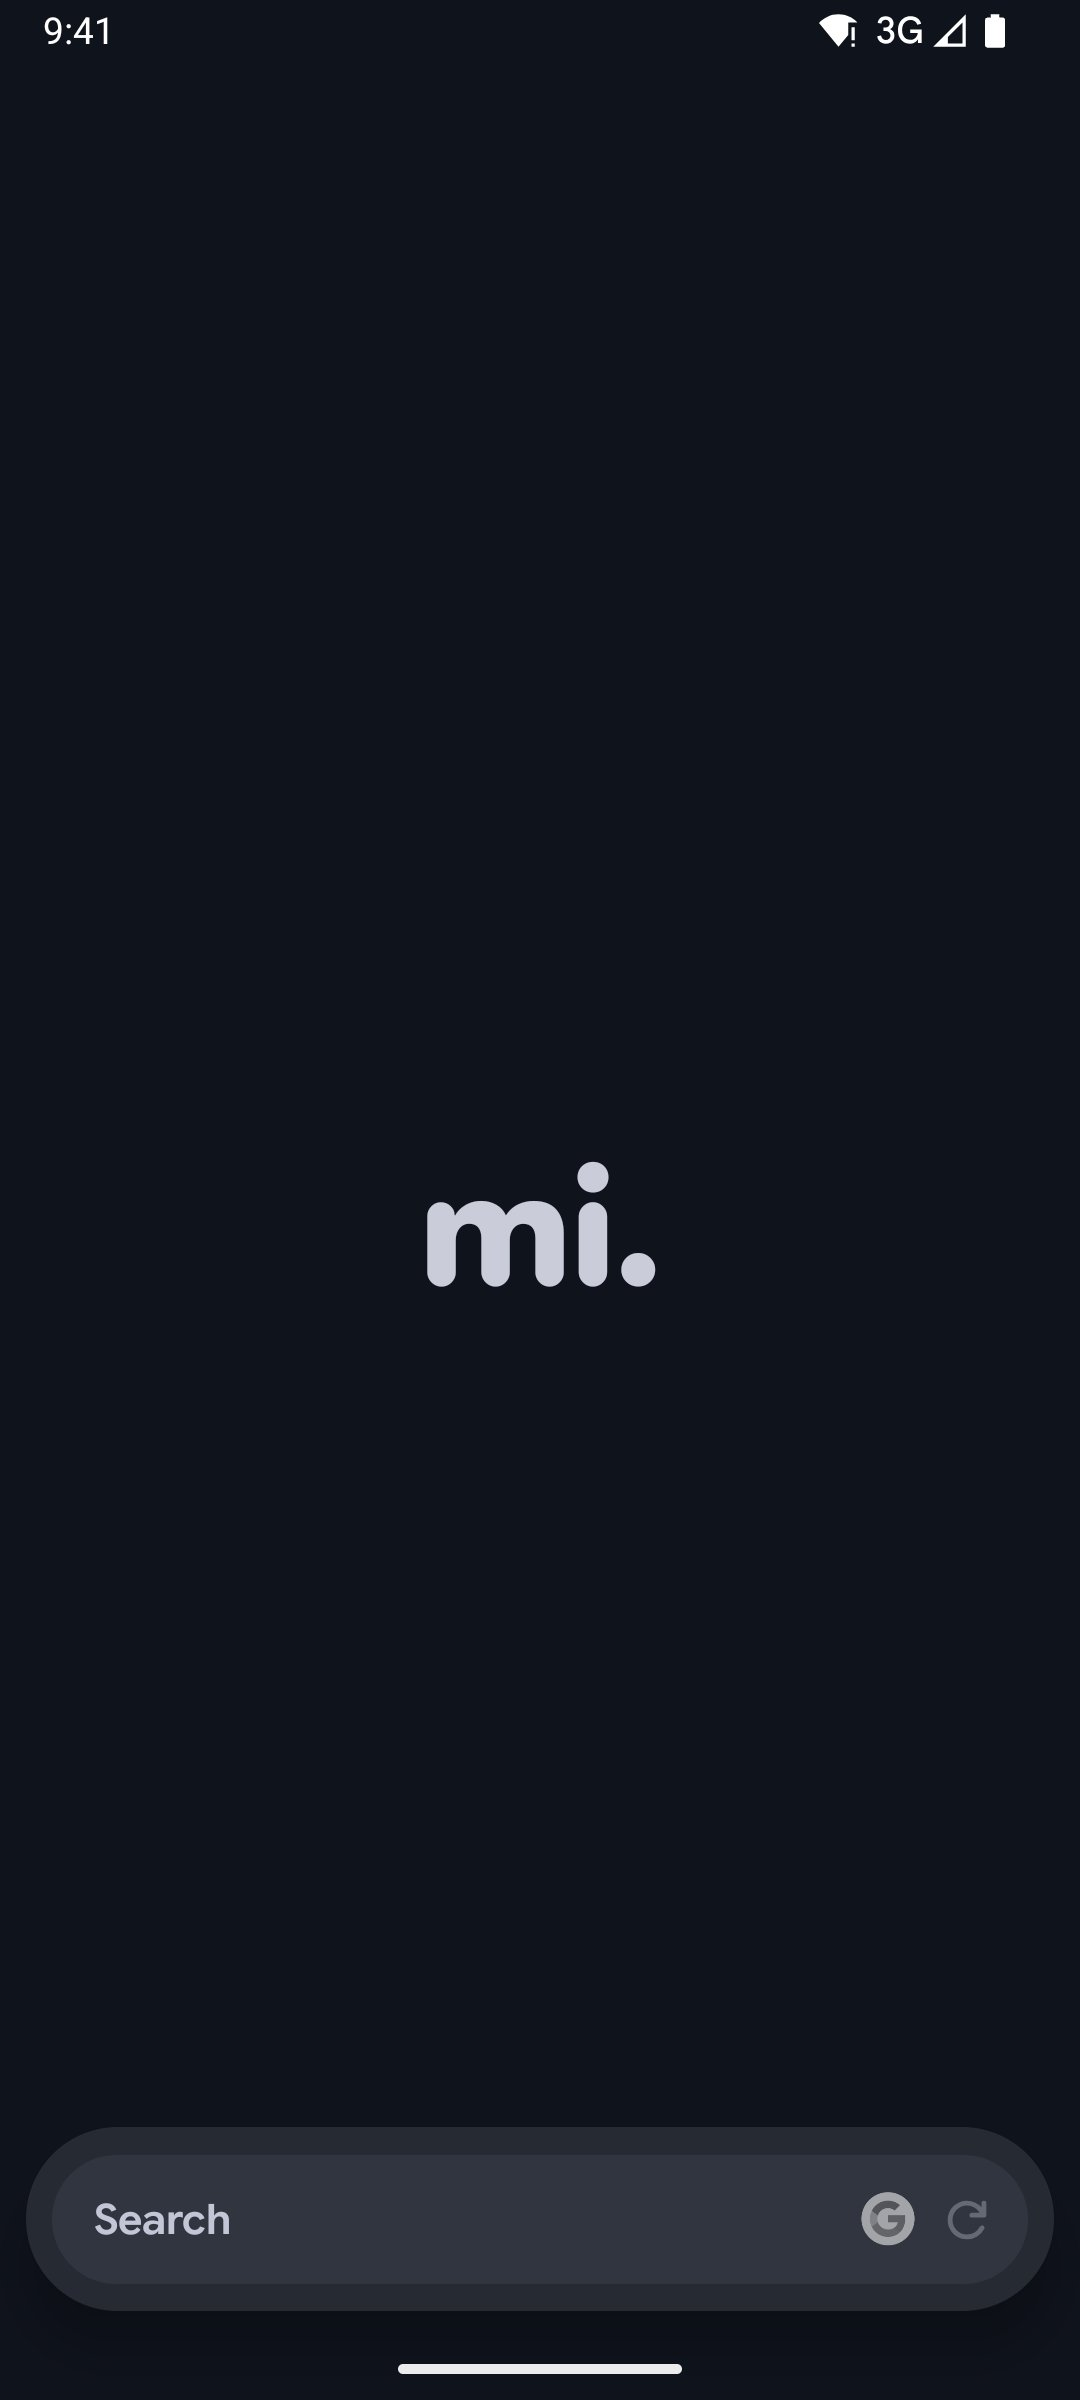
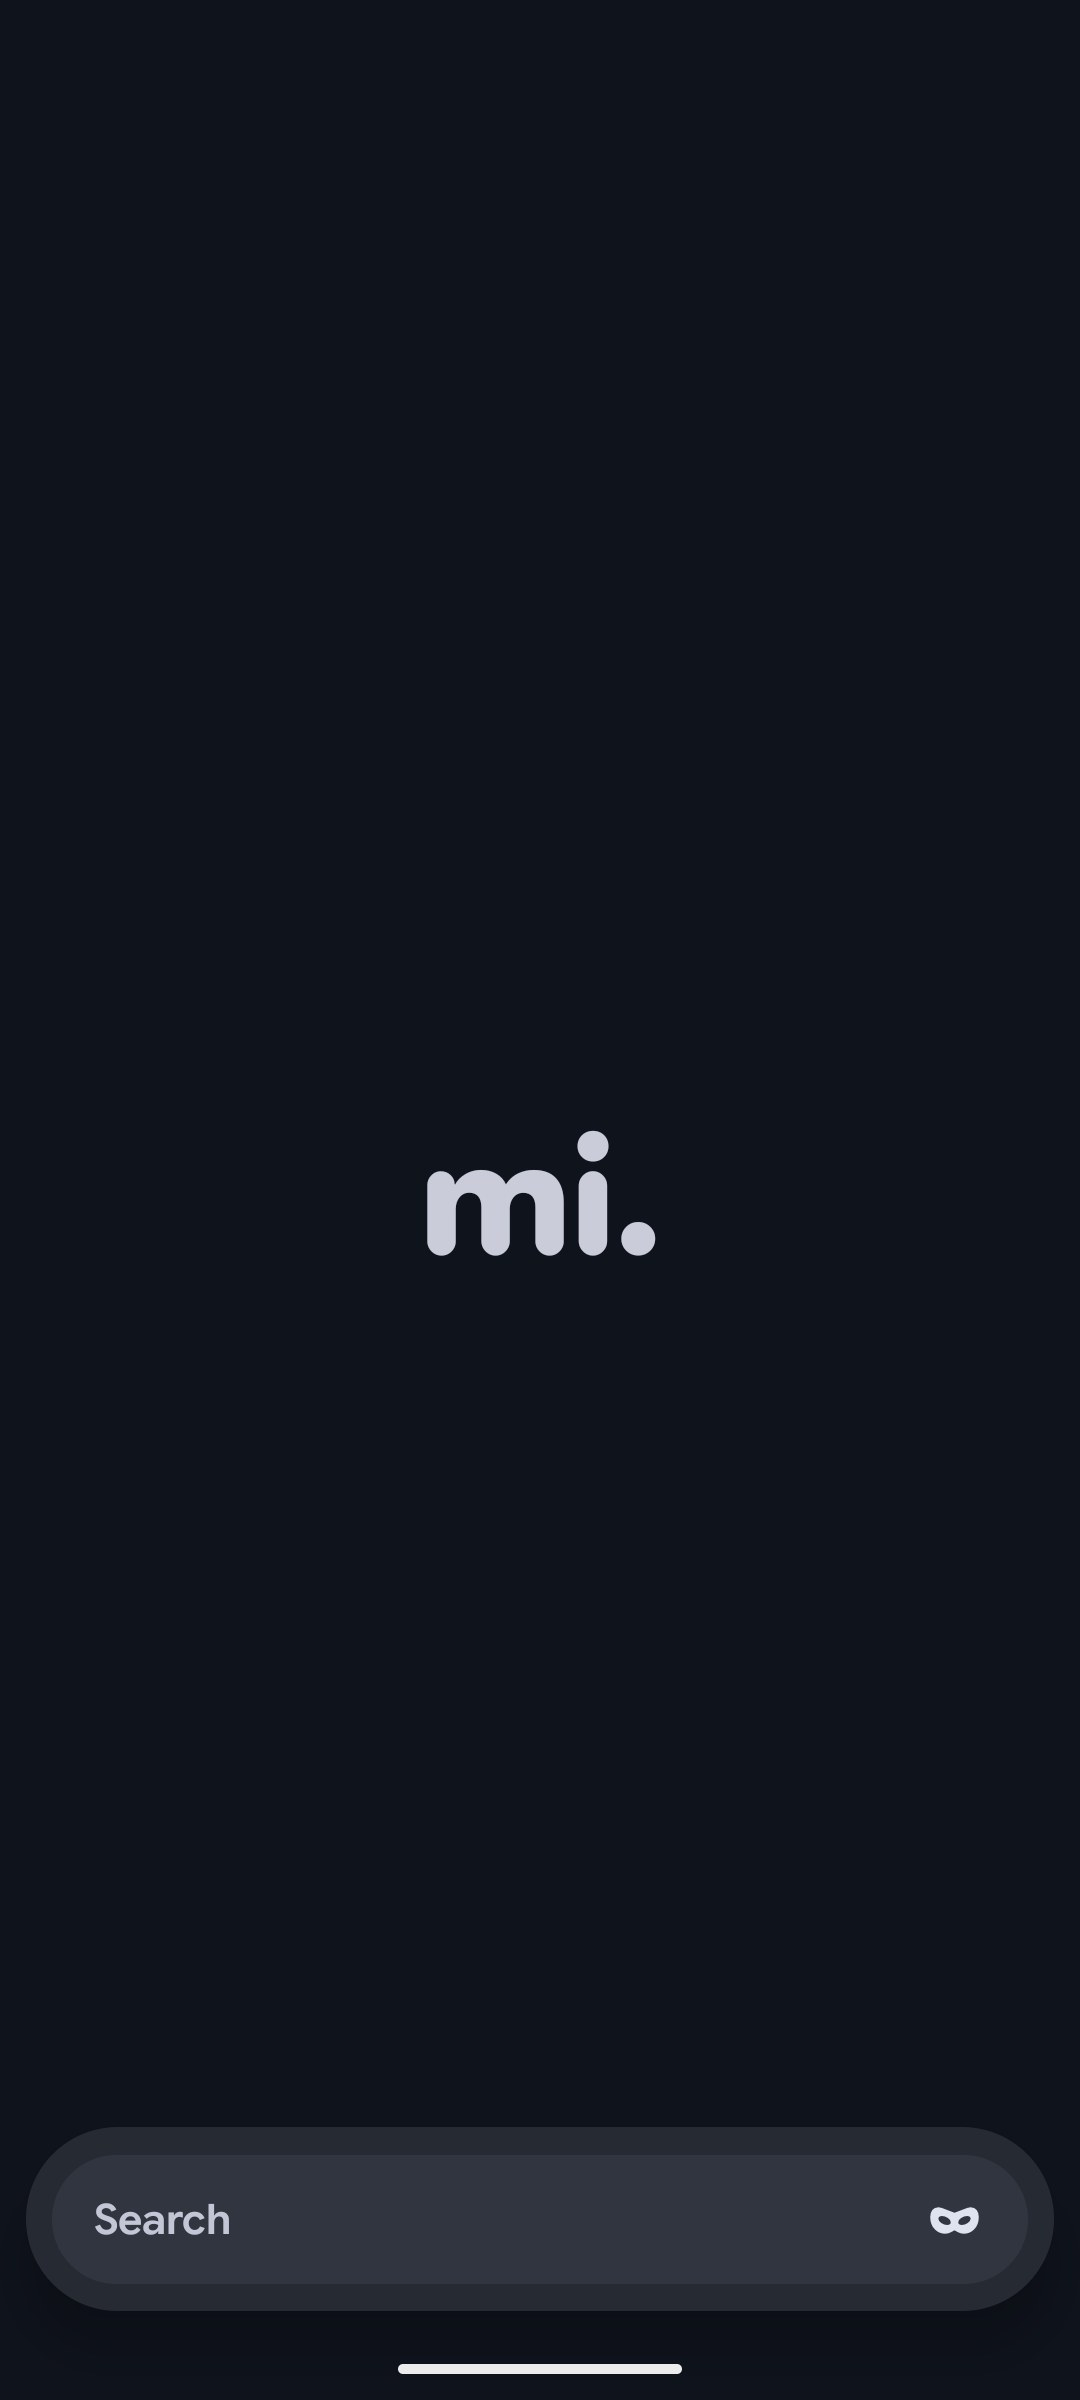
Screenshots without the status bar, README leads with the new tab page, store images
- All docs screenshots retaken on 1.3.0 (status bar off, dark theme)
- README gallery starts with the blank mi. page
- docs/public/promo: six 1080x1920 portrait store images

diff --git a/README.md b/README.md
@@ -12,7 +12,7 @@
 </p>
 
 <p align="center">
-  <img src="docs/public/images/browsing.jpg" width="200" alt="Browsing a page with the Pill at the bottom" />
+  <img src="docs/public/images/homepage.jpg" width="200" alt="A new tab: the mi. logo with the Pill at the bottom" />
   <img src="docs/public/images/tab_switcher.jpg" width="200" alt="Tab switcher with a pinned tab" />
   <img src="docs/public/images/power_tools.jpg" width="200" alt="Tab menu: favorite, bookmark, pin, quick tiles and tools" />
   <img src="docs/public/images/incognito.jpg" width="200" alt="A new incognito tab" />
